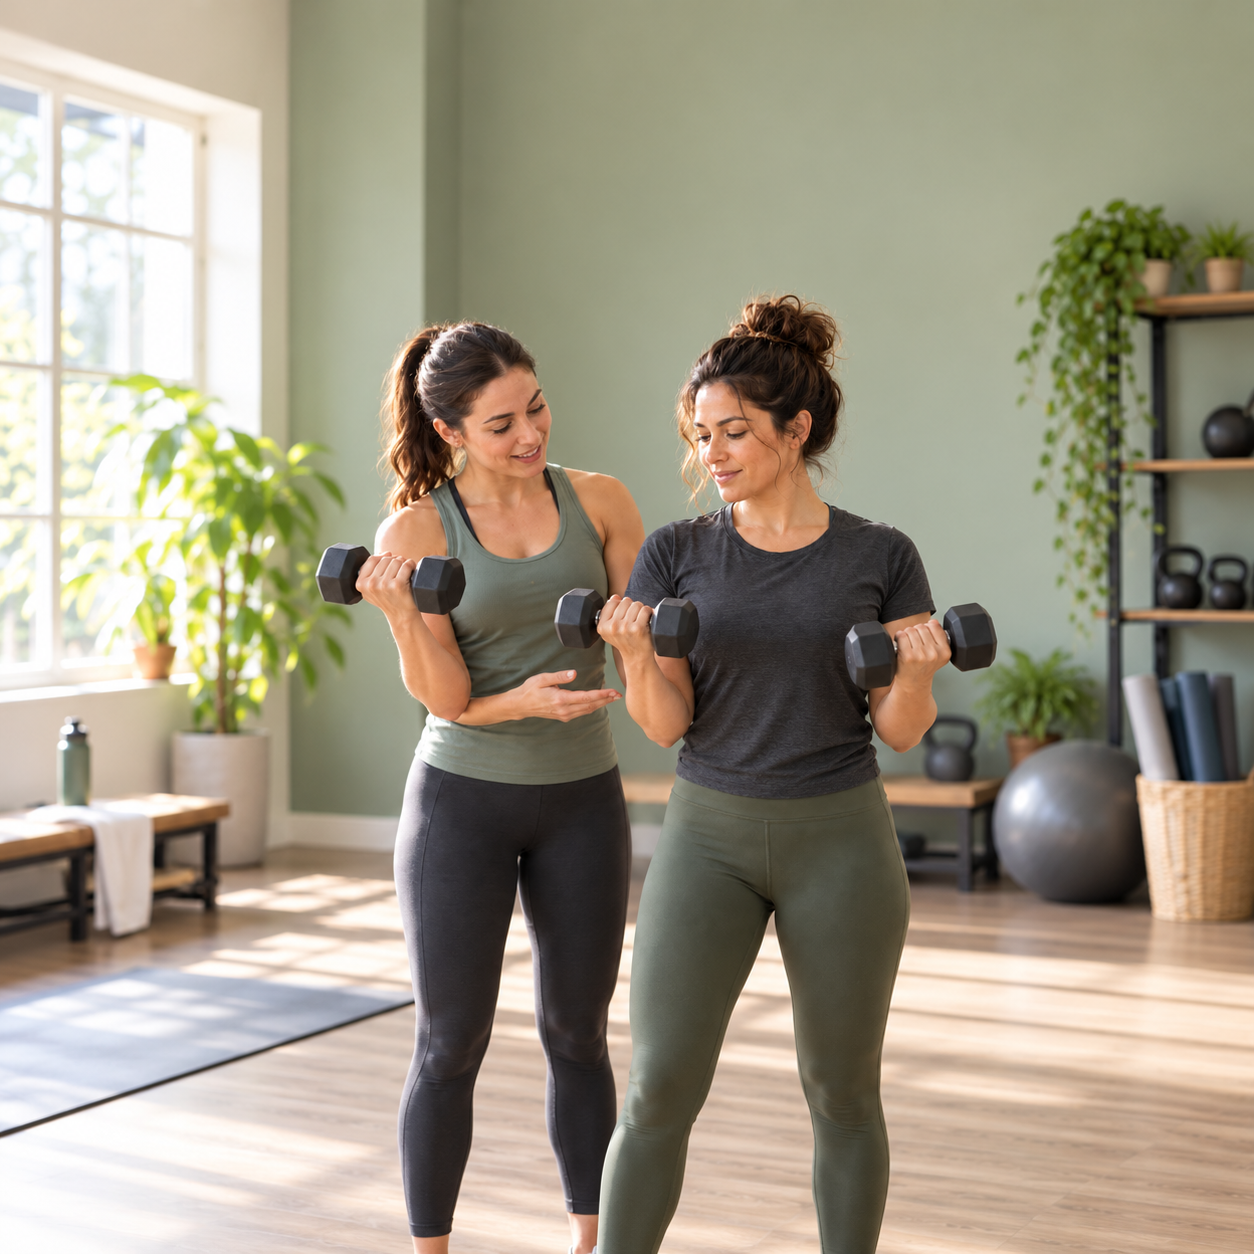
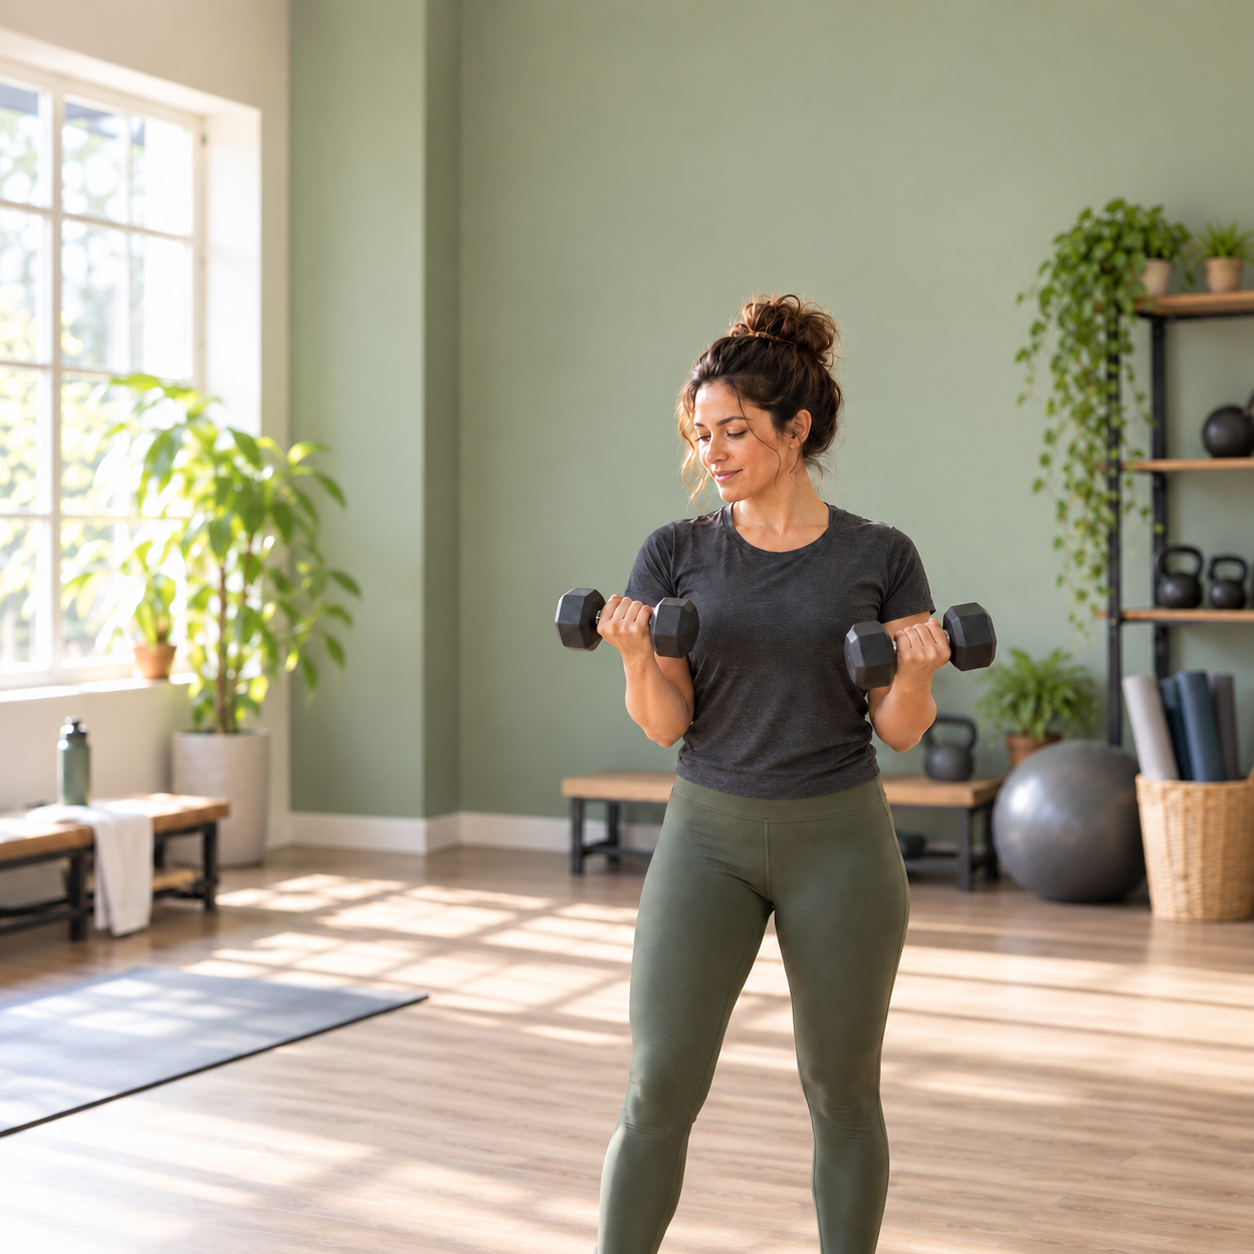
Keep only the right woman in fitness photo

diff --git a/index.html b/index.html
@@ -134,7 +134,7 @@
 <article class="gallery-card"><button type="button" class="gallery-open" data-example="fitness" aria-haspopup="dialog" aria-controls="creative-viewer" aria-label="Открыть пример: Фитнес: помощь на старте">
 <span class="creative fmt-square theme-fitness layout-training"><span class="ad-layout">
   <span class="ad-copy"><span class="ad-brand">Студия «Темп»</span><strong class="ad-headline">Начните заниматься с тренером</strong><span class="ad-detail">Тренировки для начинающих</span><span class="ad-action">Выбрать занятие</span></span>
-  <span class="ad-photo"><img src="assets/fitness-coach.png" width="1254" height="1254" loading="lazy" decoding="async" alt="Тренер показывает начинающей посетительнице правильное положение руки при упражнении с гантелью"></span>
+  <span class="ad-photo"><img src="assets/fitness-coach.png" width="1254" height="1254" loading="lazy" decoding="async" alt="Женщина в серой футболке тренируется с гантелями в светлой студии"></span>
 </span></span><span class="card-caption"><span><strong>Фитнес-студия</strong><small>Помощь на старте</small></span><span class="card-arrow" aria-hidden="true"><svg class="icon"><use href="#i-arrow"></use></svg></span></span></button></article>
 <article class="gallery-card"><button type="button" class="gallery-open" data-example="language" aria-haspopup="dialog" aria-controls="creative-viewer" aria-label="Открыть пример: Английский: общение в поездках">
 <span class="creative fmt-square theme-language layout-travel"><span class="ad-layout">
